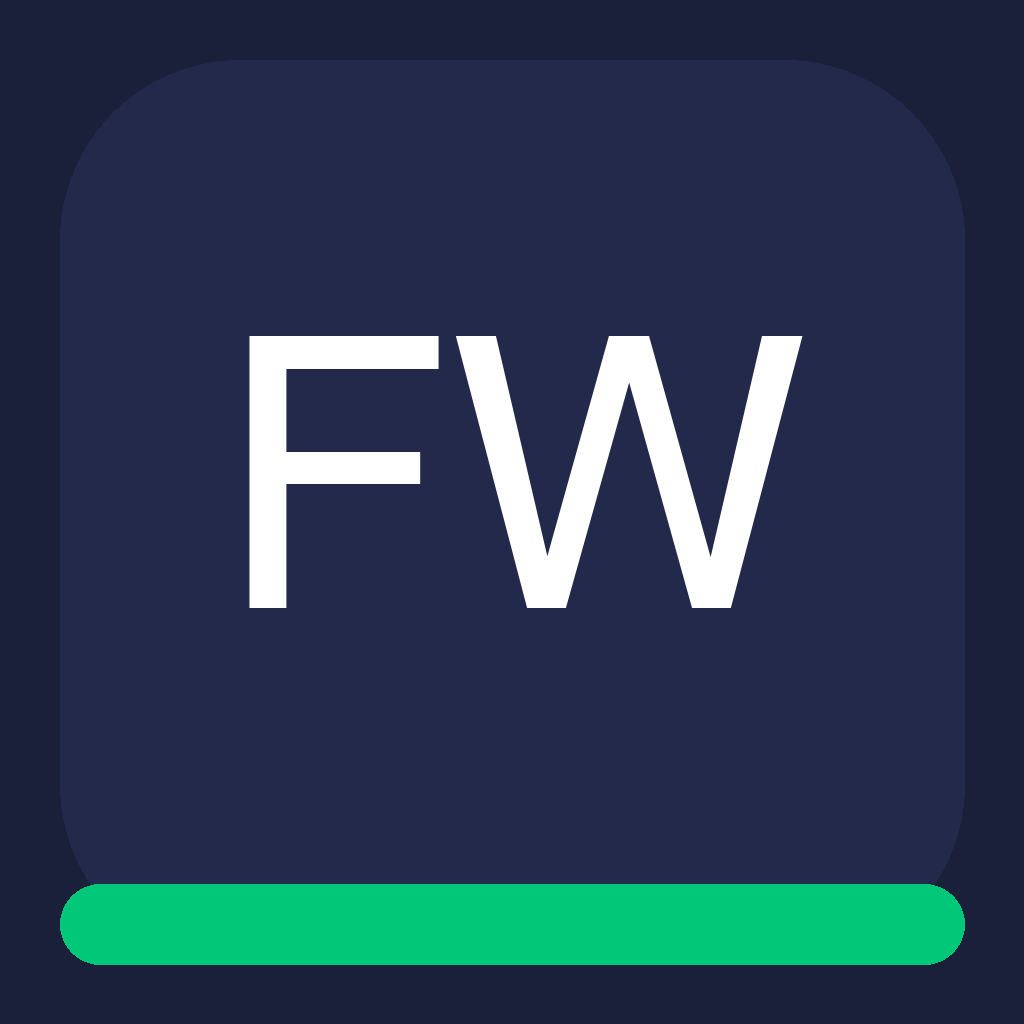
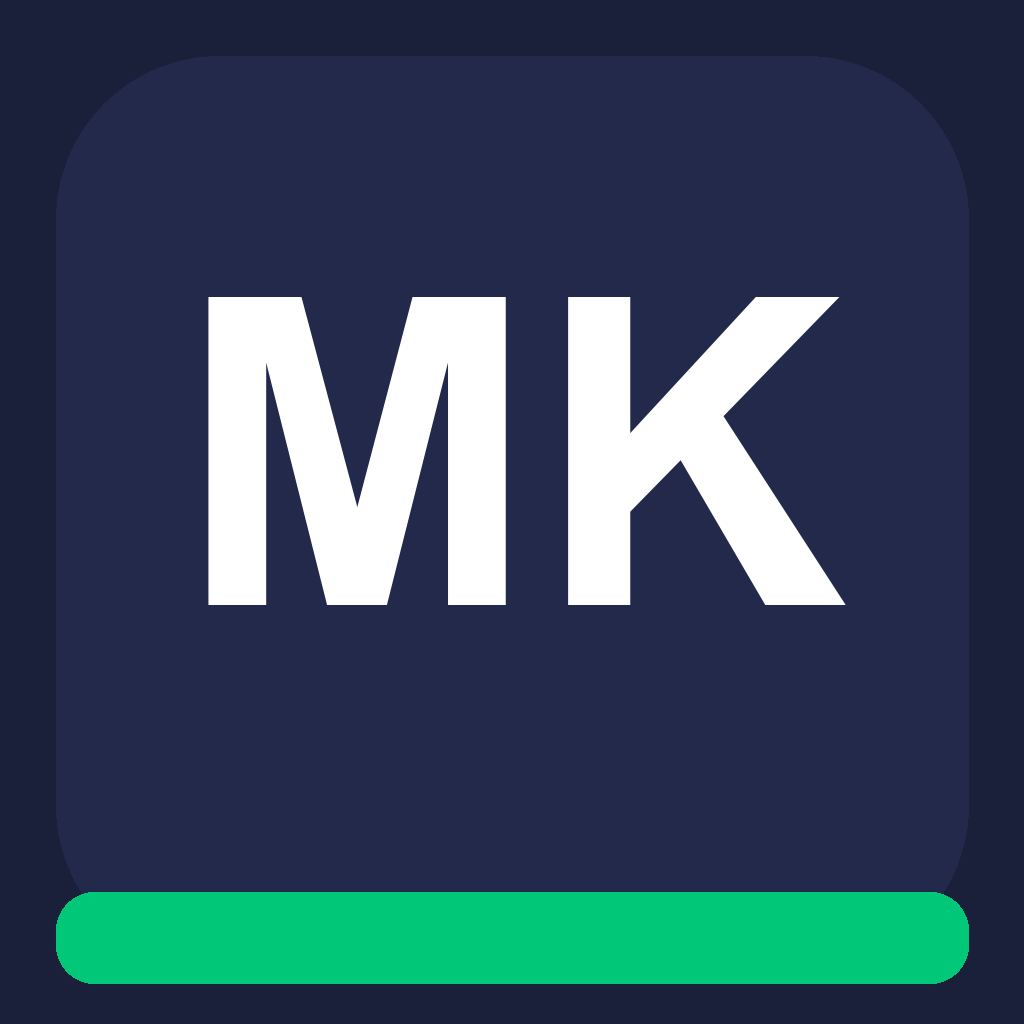
fix(FCC): founder device findings #1 + #2 — MoneyKeel brand assets & the B46 first-run flow
Finding #1 — 'the logo is still FW': the June rename changed the name and strings but never
regenerated the IMAGE assets. Fixed: interim MoneyKeel icon / adaptive icon / splash generated
in the same visual family (MK tile + keel bar, colors sampled from the existing artwork);
splash now says MoneyKeel · Your money's chief of staff; stale second tagline removed from
sign-in. Appears in the NEXT build (images are baked into the binary).

Finding #2 — 'onboarding doesn't match detailed design Home!B46': it didn't — new users got
the old 4-way questionnaire. Fixed per the approved flow map: the auth guard now routes brand-
new users to /first-run = STEP 1 value intro (what MoneyKeel can do + the read-only promise)
→ STEP 2 what-did-you-come-for (pick all that apply) → STEP 3 still-working/retired (sets the
lens AND seeds profile.status for the income modules) → STEP 4 routed fast-path (retired +
paycheck → Monthly income; else Home). Every step skippable = sensible defaults. The deep
questionnaire stays fully reachable as Home's set-up-by-hand door (never bounced by the guard).

Re-pins: guard contract tests, first-run journey (+ Settings-revisit case), user-flow suite.
Suite: 971 green · tsc clean · UI gate passing.

Changed region(s): [[0.1875, 0.2812, 0.8438, 0.5938], [0.0312, 0.9062, 0.9688, 0.9688], [0.0625, 0.8438, 0.9375, 0.875]]

diff --git a/src/screens/FirstRunScreen.tsx b/src/screens/FirstRunScreen.tsx
@@ -1,7 +1,9 @@
-// First run — what did you come for? (FCC detailed design v1.1, Home sheet). Two friendly questions
-// set the lens (which hero leads Home) and the tab order. Pick-all-that-apply intents ONLY order
-// suggestions — they never change a number. Skippable with no dead end; changeable in Settings.
-// Also the Settings "Your setup" revisit target (same screen, same one stage field).
+// First run (FCC detailed design v1.1, Home tab B46 — the onboarding flow map). THE first-run for
+// new users: STEP 1 value intro (what MoneyKeel can do + the read-only promise) → STEP 2 intents
+// (pick all that apply — they only order suggestions, never change a number) → STEP 3 the stage
+// question (sets the lens: hero + tab order) → STEP 4 routed by answers (retired + paycheck →
+// the Monthly-income fast path; otherwise Home). Every step skippable; skip = sensible defaults.
+// Also the Settings "Your setup" revisit target (same screen, same one stage field, no intro).
 import React, { useState } from 'react';
 import { ScrollView, View, Text, StyleSheet, TouchableOpacity } from 'react-native';
 import { useRouter } from 'expo-router';
@@ -19,6 +21,8 @@ export default function FirstRunScreen() {
   const router = useRouter();
   const store = useStore() as any;
   const op = store.onboardingProfile ?? {};
+  const isFirstRun = !store.onboardingComplete;               // Settings revisit skips the intro
+  const [step, setStep] = useState<'intro' | 'questions'>(isFirstRun ? 'intro' : 'questions');
   const [intents, setIntents] = useState<string[]>(() => (op.intents as string[]) ?? []);
   const [stage, setStage] = useState<Lens | null>(() => store.lensOverride ?? null);
 
@@ -27,9 +31,15 @@ export default function FirstRunScreen() {
 
   const finish = (skipped: boolean) => {
     if (!skipped) {
-      store.setOnboardingProfile?.({ ...op, intents });          // intents order suggestions, never numbers
-      if (stage) store.setLensOverride?.(stage);                 // the ONE stage field the resolver reads
+      // intents order suggestions, never numbers; the stage answer also seeds the profile's
+      // status for the income modules (only when the deep questionnaire hasn't set one yet)
+      const statusSeed = stage && !op.status ? { status: stage === 'retired' ? 'retired' : 'employed' } : {};
+      store.setOnboardingProfile?.({ ...op, intents, ...statusSeed });
+      if (stage) store.setLensOverride?.(stage);               // the ONE stage field the resolver reads
     }
+    // B46: the light flow IS onboarding — the deep questionnaire stays reachable as the
+    // set-up-by-hand door on Home. Completing (or skipping) here never traps the user.
+    if (isFirstRun) store.setOnboardingComplete?.(true);
     // the retired fast-path: paycheck intent + retired → two typed numbers give a real hero
     // before any connect decision (the Monthly-income door)
     const lens = resolveLens(store.onboardingProfile, !skipped && stage ? stage : store.lensOverride);
@@ -37,9 +47,32 @@ export default function FirstRunScreen() {
     else router.replace('/(tabs)/home');
   };
 
+  // ── STEP 1: what MoneyKeel can do (value first, questions second — B46) ──
+  if (step === 'intro') {
+    return (
+      <ScrollView style={s.root} contentContainerStyle={s.content} showsVerticalScrollIndicator={false}>
+        <Text style={s.h1}>What MoneyKeel can do</Text>
+        <View style={s.introCard}>
+          <Text style={s.introLine}>·  Your whole money picture in one place</Text>
+          <Text style={s.introLine}>·  What needs your attention — with dollar amounts</Text>
+          <Text style={s.introLine}>·  Whether your money will last — as honest odds</Text>
+        </View>
+        <Text style={s.promise}>Read-only: we can look, never touch — we can never move your money.</Text>
+        <TouchableOpacity accessibilityRole="button" style={s.primaryBtn} onPress={() => setStep('questions')}
+          accessibilityLabel="Continue">
+          <Text style={s.primaryTxt}>Continue</Text>
+        </TouchableOpacity>
+        <TouchableOpacity accessibilityRole="button" style={s.skipBtn} onPress={() => finish(true)}
+          accessibilityLabel="Skip — just explore">
+          <Text style={s.skipTxt}>Skip — just explore</Text>
+        </TouchableOpacity>
+      </ScrollView>
+    );
+  }
+
   return (
     <ScrollView style={s.root} contentContainerStyle={s.content} showsVerticalScrollIndicator={false}>
-      <Text style={s.h1}>Welcome to MoneyKeel</Text>
+      <Text style={s.h1}>{isFirstRun ? 'Welcome to MoneyKeel' : 'Your setup'}</Text>
 
       <Text style={s.q}>What did you come for? <Text style={s.qSub}>(pick all that apply)</Text></Text>
       {INTENTS.map((it) => {
@@ -95,4 +128,7 @@ const s = StyleSheet.create({
   primaryTxt: { color: '#fff', fontSize: 16, fontWeight: '800' },
   skipBtn: { minHeight: 46, alignItems: 'center', justifyContent: 'center', marginTop: 4 },
   skipTxt: { fontSize: 14, fontWeight: '700', color: Colors.textSecondary },
+  introCard: { backgroundColor: Colors.cardBg, borderRadius: Radii.lg, padding: Spacing.md, marginTop: Spacing.sm },
+  introLine: { fontSize: 15.5, color: Colors.textPrimary, lineHeight: 26 },
+  promise: { fontSize: 13.5, color: Colors.textSecondary, lineHeight: 19, marginTop: Spacing.md },
 });

diff --git a/src/screens/__tests__/first_run_lens.test.tsx b/src/screens/__tests__/first_run_lens.test.tsx
@@ -20,16 +20,23 @@ beforeEach(() => {
 
 test('answering the stage question sets the lens for the whole app (the one resolver field)', () => {
   render(<FirstRunScreen />);
+  // STEP 1 (B46): the value intro with the read-only promise comes first
+  expect(screen.getByText('What MoneyKeel can do')).toBeOnTheScreen();
+  expect(screen.getByText(/never move your money/)).toBeOnTheScreen();
+  fireEvent.press(screen.getByLabelText('Continue'));
   fireEvent.press(screen.getByLabelText('Retired, or nearly'));
   fireEvent.press(screen.getByLabelText('Continue'));
   const s = useStore.getState() as any;
   expect(s.lensOverride).toBe('retired');
   expect(resolveLens(s.onboardingProfile, s.lensOverride)).toBe('retired');
+  expect(s.onboardingProfile.status).toBe('retired');   // the stage answer seeds the profile status
+  expect(s.onboardingComplete).toBe(true);              // the light flow IS onboarding (B46)
   expect(mockReplaces).toEqual(['/(tabs)/home']);
 });
 
 test('the retired fast-path: paycheck intent + retired → the Monthly-income door (two typed numbers first)', () => {
   render(<FirstRunScreen />);
+  fireEvent.press(screen.getByLabelText('Continue'));
   fireEvent.press(screen.getByLabelText('A retirement paycheck I can trust'));
   fireEvent.press(screen.getByLabelText('Retired, or nearly'));
   fireEvent.press(screen.getByLabelText('Continue'));
@@ -39,15 +46,23 @@ test('the retired fast-path: paycheck intent + retired → the Monthly-income do
 
 test('Skip — just explore writes NOTHING and lands on Home (defaults, no dead end)', () => {
   render(<FirstRunScreen />);
-  fireEvent.press(screen.getByLabelText('A retirement paycheck I can trust'));   // picked but then skipped
-  fireEvent.press(screen.getByLabelText('Skip — just explore'));
+  fireEvent.press(screen.getByLabelText('Skip — just explore'));   // skippable straight from the intro
   const s = useStore.getState() as any;
   expect(s.lensOverride).toBeNull();
   expect(s.onboardingProfile?.intents).toBeUndefined();
+  expect(s.onboardingComplete).toBe(true);                          // skip = sensible defaults, still done
   expect(mockReplaces).toEqual(['/(tabs)/home']);
 });
 
 test('the consequence sentence renders before the buttons (the a11y spec)', () => {
   render(<FirstRunScreen />);
+  fireEvent.press(screen.getByLabelText('Continue'));
   expect(screen.getByText(/This sets up your Home and your tab order/)).toBeOnTheScreen();
+});
+
+test('the Settings revisit skips the intro and shows the questions directly, titled Your setup', () => {
+  useStore.setState({ onboardingComplete: true } as any);
+  render(<FirstRunScreen />);
+  expect(screen.queryByText('What MoneyKeel can do')).toBeNull();
+  expect(screen.getByText('Your setup')).toBeOnTheScreen();
 });

diff --git a/src/navigation/__tests__/routeGuard.test.ts b/src/navigation/__tests__/routeGuard.test.ts
@@ -22,12 +22,15 @@ describe('auth routing guard (L-4 regression contract)', () => {
     });
   });
 
-  describe('authenticated but onboarding unfinished → questions, NOT a dead-end', () => {
-    test('a freshly-created account goes to /onboarding (the bug showed "You\'re signed in" instead)', () => {
-      expect(nextRoute(S({ user: true, onboardingComplete: false, segment: 'auth' }))).toBe('/onboarding');
-      expect(nextRoute(S({ user: true, onboardingComplete: false, segment: '(tabs)' }))).toBe('/onboarding');
+  describe('authenticated but onboarding unfinished → the first-run questions, NOT a dead-end', () => {
+    test('a freshly-created account goes to /first-run (FCC B46: value intro → intents → stage)', () => {
+      expect(nextRoute(S({ user: true, onboardingComplete: false, segment: 'auth' }))).toBe('/first-run');
+      expect(nextRoute(S({ user: true, onboardingComplete: false, segment: '(tabs)' }))).toBe('/first-run');
     });
-    test('stays in onboarding once there', () => {
+    test('stays put on first-run once there', () => {
+      expect(nextRoute(S({ user: true, onboardingComplete: false, segment: 'first-run' }))).toBeNull();
+    });
+    test('the deep questionnaire stays legal (the set-up-by-hand door) — never bounced out of it', () => {
       expect(nextRoute(S({ user: true, onboardingComplete: false, segment: 'onboarding' }))).toBeNull();
     });
   });

diff --git a/src/screens/__tests__/fcc_user_flows.test.tsx b/src/screens/__tests__/fcc_user_flows.test.tsx
@@ -89,9 +89,10 @@ describe('2 · returning RETIRED user upgrades from Build 40', () => {
 });
 
 describe('3 · brand-new user, day one, finishes onboarding', () => {
-  test('the guard walks them auth → onboarding → Home (the routing contract)', () => {
+  test('the guard walks them auth → first-run → Home (the B46 routing contract)', () => {
     expect(nextRoute({ user: false, onboardingComplete: false, onboardingPaused: false, segment: '(tabs)' })).toBe('/auth');
-    expect(nextRoute({ user: true, onboardingComplete: false, onboardingPaused: false, segment: 'auth' })).toBe('/onboarding');
+    expect(nextRoute({ user: true, onboardingComplete: false, onboardingPaused: false, segment: 'auth' })).toBe('/first-run');
+    expect(nextRoute({ user: true, onboardingComplete: false, onboardingPaused: false, segment: 'onboarding' })).toBeNull();   // the by-hand door stays legal
     expect(nextRoute({ user: true, onboardingComplete: true, onboardingPaused: false, segment: '(tabs)' })).toBeNull();
   });
 

diff --git a/src/navigation/routeGuard.ts b/src/navigation/routeGuard.ts
@@ -43,8 +43,10 @@ export function nextRoute({ user, onboardingComplete, onboardingPaused, segment 
       // Paused setup — let them use the app; don't trap them back in onboarding.
       if (inOnboarding) return '/(tabs)/home';
     } else {
-      // Authenticated but setup unfinished → onboarding QUESTIONS (no account step; L-4).
-      if (!inOnboarding) return '/onboarding';
+      // FCC (B46): a brand-new user gets the LIGHT first-run (value intro → intents → stage →
+      // routed fast-path). The deep questionnaire (/onboarding) stays legal — it's the
+      // set-up-by-hand door Home offers; the guard must not bounce someone who chose it.
+      if (!inOnboarding && segment !== 'first-run') return '/first-run';
     }
   } else {
     // Unauthenticated → AuthScreen first (the only place to sign up or log in).

diff --git a/src/screens/AuthScreen.tsx b/src/screens/AuthScreen.tsx
@@ -268,7 +268,6 @@ export default function AuthScreen() {
           </View>
           <Text style={styles.appName}>MoneyKeel</Text>
           <Text style={styles.tagline}>Your money’s chief of staff</Text>
-          <Text style={styles.tagline}>Your money, made simple</Text>
         </View>
 
         {/* Card */}

diff --git a/docs/FCC-core-55-70/FCC-build-tracker.md b/docs/FCC-core-55-70/FCC-build-tracker.md
@@ -16,6 +16,7 @@ All FCC commits PUSHED (9ac80a7 → 0969193, branch taxonomy-v1.0.7)._
 | TestFlight | ✅ auto-submitted (submission 19e8e1b1…) — update the app on your phone; Apple emails when processed |
 | Review materials | `FCC-launch-review-2026-07-13.md` (the verdict + script) · `../finwise-device-test-build41.xlsx` (the fillable walk sheet) |
 | Founder verdict | 💬 _your call after the device walk:_ |
+| Founder findings (2026-07-14) | **#1 FW logo/splash** — icon, splash and adaptive icon still carried the May FinWise artwork (the rename never regenerated the images). FIXED: interim MoneyKeel marks generated in the same visual family (MK tile + keel bar); stale second tagline removed from sign-in. Needs BUILD #42 to appear (images are baked into the binary). **#2 Onboarding ≠ B46** — new users got the old 4-way questionnaire. FIXED: the guard now routes brand-new users to the approved light flow (value intro → what-did-you-come-for → still-working/retired → routed fast-path; every step skippable); the deep questionnaire remains as the set-up-by-hand door from Home. Visible immediately for new accounts in #42. |
 
 _Note 2026-07-13: the Apple account is registered as an INDIVIDUAL — founder decided no App Store
 Connect rename is needed; the device shows MoneyKeel from the binary._
@@ -64,13 +65,13 @@ one build at the end.**
 | Home — still-working hero (Grow & Track) | ✅ (investments + 1M vs market + freshness + net-worth line + what-needs-you + will-it-last) | |
 | Home — retired hero (Safe to spend) | ✅ (PaycheckCard leads, no flag) | |
 | Worth a look — transaction detail (F10) | ✅ (facts, comparison, two buttons, checklist, prev/next, copy ban tested) | |
-| First run — what did you come for? (sets the lens) | ✅ (/first-run: intents + stage + retired fast-path + Skip; Settings links to it). Onboarding-flow insertion for brand-new users still pending | |
+| First run — what did you come for? (sets the lens) | ✅ FULL B46 flow (founder finding #2): value intro + intents + stage + fast-path; the GUARD now routes new users here; deep questionnaire = the by-hand door | |
 | Home — first run (nothing connected yet) | 🔨 (honest empty state exists; FCC two-door layout pending) | |
 | Home — balances hidden | ✅ (banner + walk test) | |
 | Home — stale connection + partial data | 🔨 (price freshness live; connection part blocked on F1) | |
 | Idle cash — nudge detail | ✅ (`/idle-cash`; cash-drag insight repointed) | |
 | 401(k) room this year — nudge detail | ♻ (contribution-room screen exists; k401 insight routes there) | |
-| Onboarding flow map (5 steps) | ⬜ | |
+| Onboarding flow map (5 steps) | ✅ (founder finding #2) — intro → intents → stage → routed fast-path → Home; every step skippable | |
 
 ### Cash flow (7)
 | Screen | Status | 💬 Your comments |
